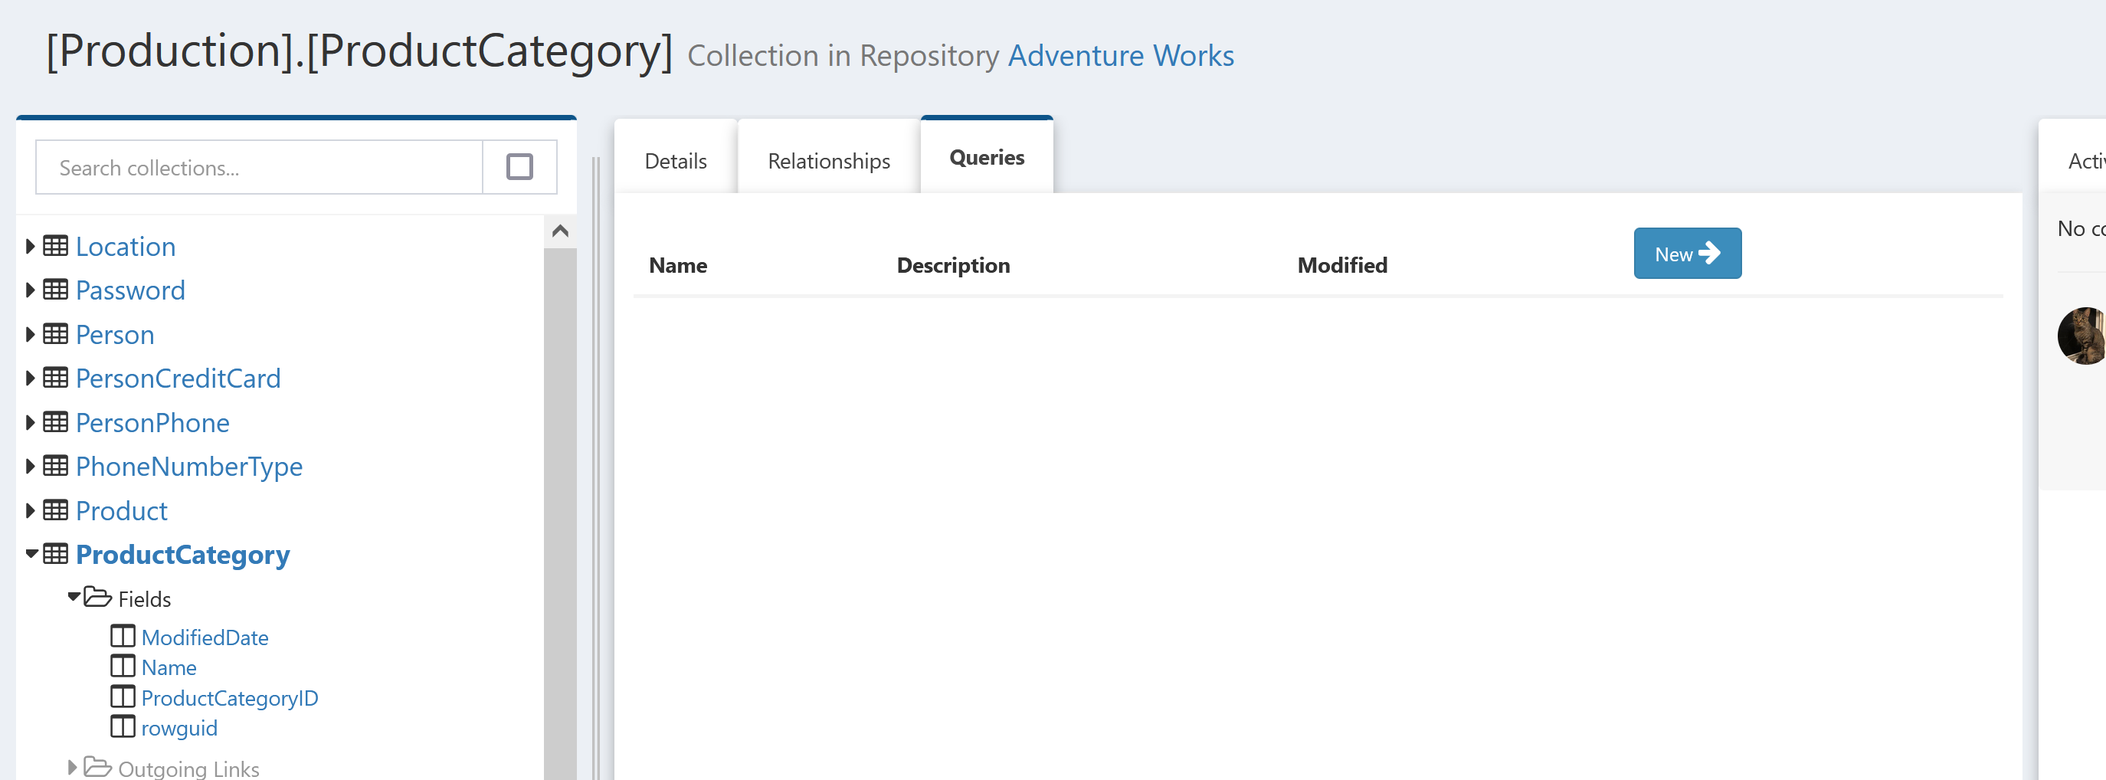
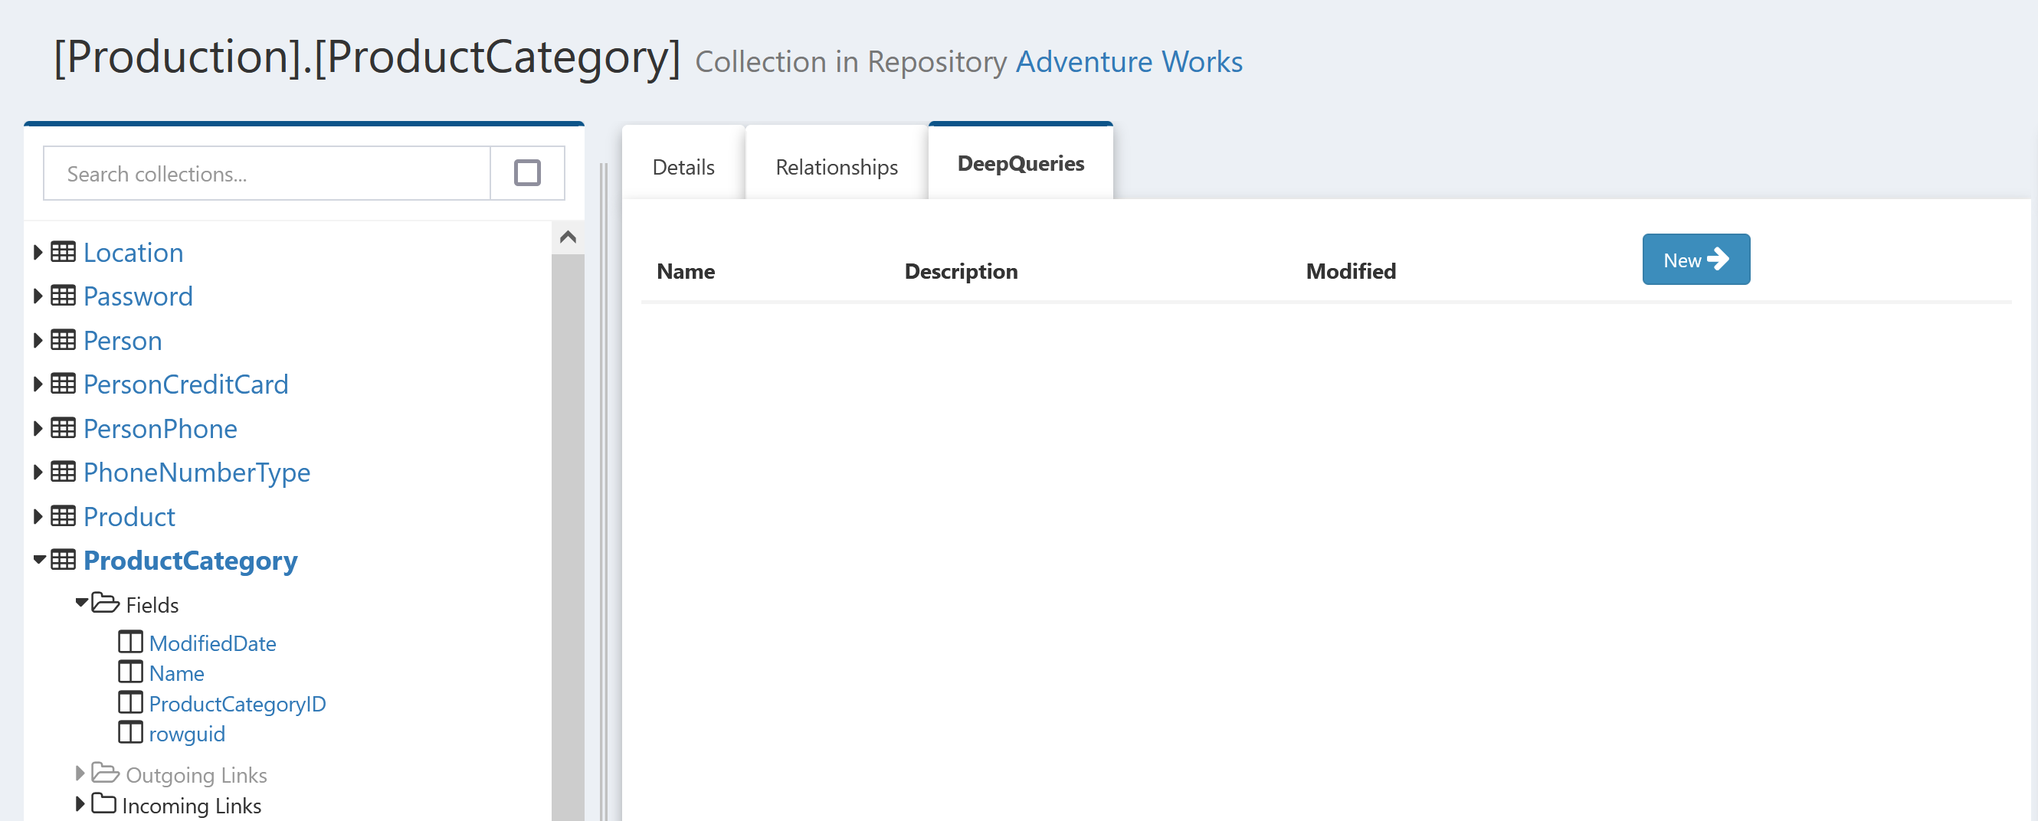
Rename QueryDive to DeepQuery

diff --git a/docs/DataRepository/DeepQuery-Basics.md b/docs/DataRepository/DeepQuery-Basics.md
@@ -1,6 +1,6 @@
-# Creating a QueryDive
+# Creating a DeepQuery
 
-To create a new QueryDive, [navigate](./Repository-Details.md#navigation) to any collection or field in a DataRepository. From there, click on the "Queries" tab:
+To create a new DeepQuery, [navigate](./Repository-Details.md#navigation) to any collection or field in a DataRepository. From there, click on the `DeepQueries` tab:
 
 ![!Collection Query Tab](img/Query_tab.png)
 
@@ -12,13 +12,13 @@ This new query defaults to selecting the first page of results for all fields in
 
 Now that we can see some of the data from our chosen collection, let's see how we can expand this query to discover more about the database and answer whatever questions we might have about the data.
 
-## Modifying a QueryDive
+## Modifying a DeepQuery
 
 There are two main ways to modify a query: via interacting with the results panel headers and via the "Query" sidebar panel.
 
 ### Results Headers
 
-The column headers above the query results tell you what data is being displayed; the bottom row shows the field being displayed in that column and the top row shows what collection each field belongs to. Both sets of headers are also interactive; the three-dots icon on the right hand side opens a menu with a variety of actions that can be taken on each field.
+The column headers above the query results tell you what data is being displayed. The bottom row shows the field being displayed in that column and the top row shows what collection each field belongs to. Both sets of headers are also interactive; the three-dots icon on the right hand side opens a menu with a variety of actions that can be taken on each field.
 
 ![!Field Menu Options](img/Field_menu_options.png)
 
@@ -26,7 +26,7 @@ For example, suppose we're not interested in the `rowguid` column of `ProductCat
 
 ![!Query Step 2](img/Basic_query_step_2.png)
 
-For details on all actions that can be taken on fields see [here](./QueryDive-Details.md#field-menu-options) and for collections see [here](./QueryDive-Details.md#collection-menu-options).
+For details on all actions that can be taken on fields see [here](./DeepQuery-Details.md#field-menu-options) and for collections see [here](./DeepQuery-Details.md#collection-menu-options).
 
 ### Query sidebar
 
@@ -43,7 +43,7 @@ The main feature of the sidebar is a list of all the collections included in the
 - Included Fields
     - Fields that are included in the query results
 
-The field and collection labels in the sidebar have the same control options that the results headers have, though the menu options may vary depending on the state of the field or collection. For example, since `Suggested Collections` aren't yet part of the query, they have an [Add](./Collection-Menu-Options/Add.md) option:
+The field and collection labels in the sidebar have the same control options that the results headers have, though the menu options may vary depending on the state of the field or collection. For example, since `Suggested Collections` aren't yet part of the query, they have an [Add](./Collection-Menu-Options/Add.md) option.
 
 ![!Suggested Collection Menu](img/Suggested_collection_menu.png)
 
@@ -51,7 +51,7 @@ Selecting [Add](./Collection-Menu-Options/Add.md) will add the suggested collect
 
 ![!Added Collection Sidebar](img/Added_collection_sidebar.png)
 
-We now have a whole new set of available fields, along with a new suggested collection. Let's [Add](./Field-Menu-Options/Add.md) the `Name` field and see how that impacts the query:
+We now have a whole new set of available fields, along with a new suggested collection. Let's [Add](./Field-Menu-Options/Add.md) the `Name` field and see how that impacts the query.
 
 ![!Basic Query Step 3](img/Basic_query_step_3.png)
 
@@ -81,8 +81,8 @@ The `Mean Price` column has appeared in `[Production].[ProductSubcategory]`, sho
 
 ![!Basic Query Step 5](img/Basic_query_step_5.png)
 
-Now we can see that the subcategory with the lowest average price is `Cleaners` in the `Accessories` category. For more details on ordering by fields, see [here](./QueryDive-Details.md#ordering).
+Now we can see that the subcategory with the lowest average price is `Cleaners` in the `Accessories` category. For more details on ordering by fields, see [here](./DeepQuery-Details.md#ordering).
 
 ## Wrapping up
 
-We've now generated a query that includes data from three separate tables while both discovering and answering a question about the underlying data. To be sure we can get back to this query and pick up where we left off next time, let's save the query. Before saving, it's probably a good idea to give it a better name: either click on `New [Production].[ProductCategory] Query` or the `Rename` button at the top of the page to edit the query name. Once you've changed the name; click the `Save` button to save the query. Now your query will be available on the `Saved Queries` tab of your [Repository Details](./Repository-Details.md#Queries) and on the `Queries` tab of any collection or field that's included in your query. For example, even though we started the query from `ProductCategory`, it also appears when we look at the `Product` queries.
+We've now generated a query that includes data from three separate tables while both discovering and answering a question about the underlying data. To be sure we can get back to this query and pick up where we left off next time, let's save the query. Before saving, it's probably a good idea to give it a better name: either click on `New [Production].[ProductCategory] Query` or the `Rename` button at the top of the page to edit the query name. Once you've changed the name; click the `Save` button to save the query. Now your query will be available on the `DeepQueries` tab of your [Repository Details](./Repository-Details.md#Queries) and any collection or field that's included in your query. For example, even though we started the query from `ProductCategory`, it also appears when we look at the `Product` queries.

diff --git a/docs/DataRepository/DeepQuery-Details.md b/docs/DataRepository/DeepQuery-Details.md
@@ -1,14 +1,14 @@
-# QueryDive Details
+# DeepQuery Details
 
-This page contains detailed information about core QueryDive concepts and the options available for them.
+This page contains detailed information about core DeepQuery concepts and the options available for them.
 
 ## Collections
 
-Every QueryDive contains one or more collections. Each query collection points to a particular [Repository Collection](./Repository-Details.md#collections), but multiple query collections may point to the same Repository Collection, allowing complex queries that join multiple parts of the same underlying data together.
+Every DeepQuery contains one or more collections. Each query collection points to a particular [Repository Collection](./Repository-Details.md#collections), but multiple query collections may point to the same Repository Collection, allowing complex queries that join multiple parts of the same underlying data together.
 
 The first collection in the query is the **Root Collection**. All other collections are defined relative to the root collection, and top level paging of results is based on rows of the root collection.
 
-All other collections in the query are **Nested Collections**. A nested collection is joined to one or more other collections in the query via Link Conditions, defining how to line up rows of the nested collection with the rest of the query. In the hierarchy of collections illustrated by the expanded header row, nested collections appear beneath all collections involved in their link conditions.
+All other collections in the query are **Nested Collections**. A nested collection is joined to one or more other collections in the query via link conditions, defining how to line up rows of the nested collection with the rest of the query. In the hierarchy of collections illustrated by the expanded header row, nested collections appear beneath all collections involved in their link conditions.
 
 ### Adding Collections
 
@@ -31,7 +31,7 @@ Once an underlying collection has been selected, the **Link Conditions** can be 
 
 At least one link condition must be provided. For each link condition, the **Origin Field** is a field on a query collection already included in the query and the **Destination Field** is a field on the new collection to be added. For both origin and destination it is also possible to create a new field from this screen by clicking the + button (after selecting a collection in the case of the origin field). See [below](#creating-fields) for details on creating new fields.
 
-Click Save to create the new collection and add it to the query. No fields will be added automatically, but the new collection will become available in the sidebar list of `Included Collections`.
+Click `Save` to create the new collection and add it to the query. No fields will be added automatically, but the new collection will become available in the sidebar list of `Included Collections`.
 
 ### Collection Menu Options
 
@@ -168,7 +168,7 @@ Note that grouping imposes significant restrictions on what fields may be includ
 
 ### Paging
 
-All results of QueryDives are paged, so only a manageable amount of data is returned at once.
+All results of DeepQueries are paged, so only a manageable amount of data is returned at once.
 
 For the root collection, the paging controls appear at the bottom of the main results panel.
 

diff --git a/docs/DataRepository/Field-Types/Aggregate.md b/docs/DataRepository/Field-Types/Aggregate.md
@@ -9,7 +9,7 @@ Aggregate fields can be added in several ways:
 - Clicking the `Field` button in the `Add` section in the Query sidebar,
 - Selecting the [Add field](../Collection-Menu-Options/Add-Field.md) option from a collection menu,
 - Selecting the [Aggregate](../Field-Menu-Options/Aggregate.md) option from a field menu,
-- Clicking the `+` button next to the dropdown menu allowing selection of an existing field when creating or editing some other QueryDive object.
+- Clicking the `+` button next to the dropdown menu allowing selection of an existing field when creating or editing some other DeepQuery object.
 ![Field Picker](../img/Field_picker.png)
 
 Most of these options will bring up a window for creating a new field of any type. To create an aggregate field, select `Aggregate` from the `Type` dropdown.
@@ -25,7 +25,7 @@ This brings up the configuration options for an aggregate field:
 
 ![!Create New Aggregate Field](../img/Create_new_field_aggregate.png)
 
-Click `Save` to create the new field and add it to the QueryDive. Click `Cancel` to close the window without creating the field.
+Click `Save` to create the new field and add it to the DeepQuery. Click `Cancel` to close the window without creating the field.
 
 ## Aggregate Functions
 
@@ -68,7 +68,7 @@ The behavior of aggregate fields is determined by the grouping conditions on the
 
 ### Nested Collection, No Grouping
 
-This is the most common type of aggregate field, in which data from a joined collection is aggregated up to a higher level of the query. For example, consider the following snippet of QueryDive results from the [AdventureWorks](https://docs.microsoft.com/en-us/sql/samples/adventureworks-install-configure) database:
+This is the most common type of aggregate field, in which data from a joined collection is aggregated up to a higher level of the query. For example, consider the following snippet of DeepQuery results from the [AdventureWorks](https://docs.microsoft.com/en-us/sql/samples/adventureworks-install-configure) database:
 
 ![!Nested Collection/No Grouping Example](../img/Nested_collection_no_grouping.png)
 
@@ -76,7 +76,7 @@ The `Mean Price` column of these results is an aggregate field with `ListPrice` 
 
 ### Root Collection, No Grouping
 
-If the QueryDive contains any aggregate field with a source field on the root collection and does not have any grouping on the root collection, the only results that can be shown for that QueryDive are aggregates of the root collection. Rather than showing a row for each row of the root collection, the results will include a single row for aggregates of the root collection.
+If the DeepQuery contains any aggregate field with a source field on the root collection and does not have any grouping on the root collection, the only results that can be shown for that DeepQuery are aggregates of the root collection. Rather than showing a row for each row of the root collection, the results will include a single row for aggregates of the root collection.
 
 ### With Grouping
 

diff --git a/docs/DataRepository/Field-Types/Constant.md b/docs/DataRepository/Field-Types/Constant.md
@@ -1,6 +1,6 @@
 # Constant Fields
 
-Constant fields return a single, constant value as a column in a particular collection. They are primarily used as part of the definition of other QueryDive objects such as [collection link conditions](../QueryDive-Details.md#adding-collections) or [condition filters](../Filter-Types/Condition.md).
+Constant fields return a single, constant value as a column in a particular collection. They are primarily used as part of the definition of other DeepQuery objects such as [collection link conditions](../DeepQuery-Details.md#adding-collections) or [condition filters](../Filter-Types/Condition.md).
 
 ## Creation
 
@@ -8,7 +8,7 @@ Constant fields can be added in several ways:
 
 - Clicking the `Field` button in the `Add` section in the Query sidebar,
 - Selecting the [Add field](../Collection-Menu-Options/Add-Field.md) option from a collection menu,
-- Clicking the `+` button next to the dropdown menu allowing selection of an existing field when creating or editing some other QueryDive object.
+- Clicking the `+` button next to the dropdown menu allowing selection of an existing field when creating or editing some other DeepQuery object.
 ![Field Picker](../img/Field_picker.png)
 
 Any of these options will bring up a window for creating a new field of any type. To create a constant field, select `Constant` from the `Type` dropdown.
@@ -25,4 +25,4 @@ This brings up the configuration options for a constant field:
 
 ![!Create New Constant Field](../img/Create_new_field_constant.png)
 
-Click `Save` to create the new field and add it to the QueryDive. Click `Cancel` to close the window without creating the field.
+Click `Save` to create the new field and add it to the DeepQuery. Click `Cancel` to close the window without creating the field.

diff --git a/docs/DataRepository/Filter-Types/Value.md b/docs/DataRepository/Filter-Types/Value.md
@@ -14,11 +14,11 @@ These will bring up a window for creating a value filter, with the following con
 
 - **Type**: What type of filter to create; set to `Value` for a Value Filter.
 - **Alias**: Display name for the filter. (optional, used when switching between multiple filters on a single field when editing)
-- **Handle**: External handle to use in modifying or overriding this filter when running this QueryDive in other contexts.
+- **Handle**: External handle to use in modifying or overriding this filter when running this DeepQuery in other contexts.
 - **Field**: Which existing field this filter will act on. This is preset by the field selected to add a filter to.
 - **Mode**: Whether the selected **Values** should be those included in query results or those excluded from query results.
 - **Values**: Selected values to include or exclude from the query results, depending on the **Mode**. These can be selected from any of the possible values of the **Field** given the current state of the query.
 
 ![!Create New Value Filter](../img/Create_new_filter_value.png)
 
-Click `Save` to create the new filter and add it to the QueryDive. Click `Cancel` to close the window without creating the filter.
+Click `Save` to create the new filter and add it to the DeepQuery. Click `Cancel` to close the window without creating the filter.

diff --git a/docs/DataRepository/Filter-Types/Condition.md b/docs/DataRepository/Filter-Types/Condition.md
@@ -10,14 +10,14 @@ These will bring up a window for creating a condition filter, with the following
 
 - **Type**: What type of filter to create; set to `Condition` for a Condition Filter.
 - **Alias**: Display name for the filter. (optional, used when switching between multiple filters on a single field when editing)
-- **Handle**: External handle to use in modifying or overriding this filter when running this QueryDive in other contexts.
+- **Handle**: External handle to use in modifying or overriding this filter when running this DeepQuery in other contexts.
 - **Field**: Which existing field this filter will act on. This is preset by the field selected to add a filter to.
 - **Condition**: The operation to apply between **Field** and **Compare To**
 - **Compare To**: Which existing field to compare to **Field**. This is hidden for some values of **Condition**.
 
 ![!Create New Condition Filter](../img/Create_new_filter_condition.png)
 
-Click `Save` to create the new filter and add it to the QueryDive. Click `Cancel` to close the window without creating the filter.
+Click `Save` to create the new filter and add it to the DeepQuery. Click `Cancel` to close the window without creating the filter.
 
 ## Conditions
 

diff --git a/docs/DataRepository/Field-Menu-Options/Link.md b/docs/DataRepository/Field-Menu-Options/Link.md
@@ -4,6 +4,6 @@ Create a new nested collection linked to the given field.
 
 This option is available for field on a collection included in the query, whether the field itself is included or not. Saving a link through this option will add non-included fields to the query as hidden fields.
 
-This option will open a window used to create new collections; see [Adding Collections](../QueryDive-Details.md#adding-collections) for more details. The **Origin Field** for the first link condition will be restricted to be the selected field; subsequent link conditions can use any field of an ancestor collection as the origin field.
+This option will open a window used to create new collections; see [Adding Collections](../DeepQuery-Details.md#adding-collections) for more details. The **Origin Field** for the first link condition will be restricted to be the selected field; subsequent link conditions can use any field of an ancestor collection as the origin field.
 
 To save the new collection and add it to the query click `Save`; to return to the query without adding a collection, click `Cancel`.

diff --git a/docs/DataRepository/Field-Types/Simple.md b/docs/DataRepository/Field-Types/Simple.md
@@ -1,3 +1,3 @@
 # Simple Fields
 
-Simple fields represent values pulled directly from the data source underlying the repository. When a collection is added to the query, a new simple field is added to the sidebar for each [Field](../Repository-Details.md#fields) in the underlying repository [Collection](../Repository-Details.md#collections). Thus each simple field corresponds to a single field in the repository, but a single repository field may be represented by multiple simple fields in the QueryDive if its containing collection is included multiple times.
+Simple fields represent values pulled directly from the data source underlying the repository. When a collection is added to the query, a new simple field is added to the sidebar for each [Field](../Repository-Details.md#fields) in the underlying repository [Collection](../Repository-Details.md#collections). Thus each simple field corresponds to a single field in the repository, but a single repository field may be represented by multiple simple fields in the DeepQuery if its containing collection is included multiple times.

diff --git a/docs/DataRepository/Collection-Menu-Options/Link.md b/docs/DataRepository/Collection-Menu-Options/Link.md
@@ -4,6 +4,6 @@ Create a new nested collection linked to the given collection.
 
 This option is available for any collection included in the query, whether it has visible fields or not. It is not available for suggested collections.
 
-This option will open a window used to create new collections; see [Adding Collections](../QueryDive-Details.md#adding-collections) for more details. The **Origin Field** for the first link condition will be restricted to be a field of the given collection; subsequent link conditions can use any field of an ancestor collection as the origin field.
+This option will open a window used to create new collections; see [Adding Collections](../DeepQuery-Details.md#adding-collections) for more details. The **Origin Field** for the first link condition will be restricted to be a field of the given collection; subsequent link conditions can use any field of an ancestor collection as the origin field.
 
 To save the new collection and add it to the query click `Save`; to return to the query without adding a collection, click `Cancel`.

diff --git a/docs/DataRepository/Collection-Menu-Options/Default-Paging.md b/docs/DataRepository/Collection-Menu-Options/Default-Paging.md
@@ -4,7 +4,7 @@ Edit the paging behavior for rows of this collection.
 
 ![!Default Paging](../img/Default_paging.png)
 
-View and edit the maximum number of rows to return in a single page of results for this collection. The placeholder value is the page size for the whole query, which can be overridden here for this collection. See [paging](../QueryDive-Details.md#paging) for more discussion of paging.
+View and edit the maximum number of rows to return in a single page of results for this collection. The placeholder value is the page size for the whole query, which can be overridden here for this collection. See [paging](../DeepQuery-Details.md#paging) for more discussion of paging.
 
 Note that in some circumstances the collection that determines the visible paging will not be the collection the visible field belongs to directly, if the collection introducing the multple rows does not show any fields in the query. For example, consider these query results on `[Production].[ProductModel].Name`:
 

diff --git a/docs/DataRepository/Repository-Details.md b/docs/DataRepository/Repository-Details.md
@@ -58,4 +58,4 @@ The relationship graph also provides an alternate way to navigate the DataReposi
 
 ## Queries
 
-In the "Saved Queries" tab for the DataRepository, you will find a list of [Composable QueryDives](./QueryDive-Overview.md) that you have created or that have been shared with you. New queries can be created from any collection or field, with the new query initialized by selecting data from that collection. Each collection or field also shows a list of all queries you have access to that reference that collection or field.
+In the "Saved Queries" tab for the DataRepository, you will find a list of [Composable DeepQueries](./DeepQuery-Overview.md) that you have created or that have been shared with you. New queries can be created from any collection or field, with the new query initialized by selecting data from that collection. Each collection or field also shows a list of all queries you have access to that reference that collection or field.

diff --git a/docs/DataRepository/Field-Menu-Options/Remove.md b/docs/DataRepository/Field-Menu-Options/Remove.md
@@ -6,9 +6,9 @@ This option is not available if the field is already not included in the query o
 
 - it is used in a link condition for some collection, either as origin or destination field
 - it is used as the source field for an [aggregate field](../Field-Types/Aggregate.md)
-- the query is [grouped by](../QueryDive-Details.md#grouping) it
-- there is a [filter](../QueryDive-Details.md#filtering) on it
+- the query is [grouped by](../DeepQuery-Details.md#grouping) it
+- there is a [filter](../DeepQuery-Details.md#filtering) on it
 - there is a [condition filter](../Filter-Types/Condition.md) on another field that uses it as a comparison field
-- it is used to [sort](../QueryDive-Details.md#ordering) the query
+- it is used to [sort](../DeepQuery-Details.md#ordering) the query
 
 If a given field cannot be removed but shouldn't have its results visible in the query, use the [Hide](./Hide.md) option.
